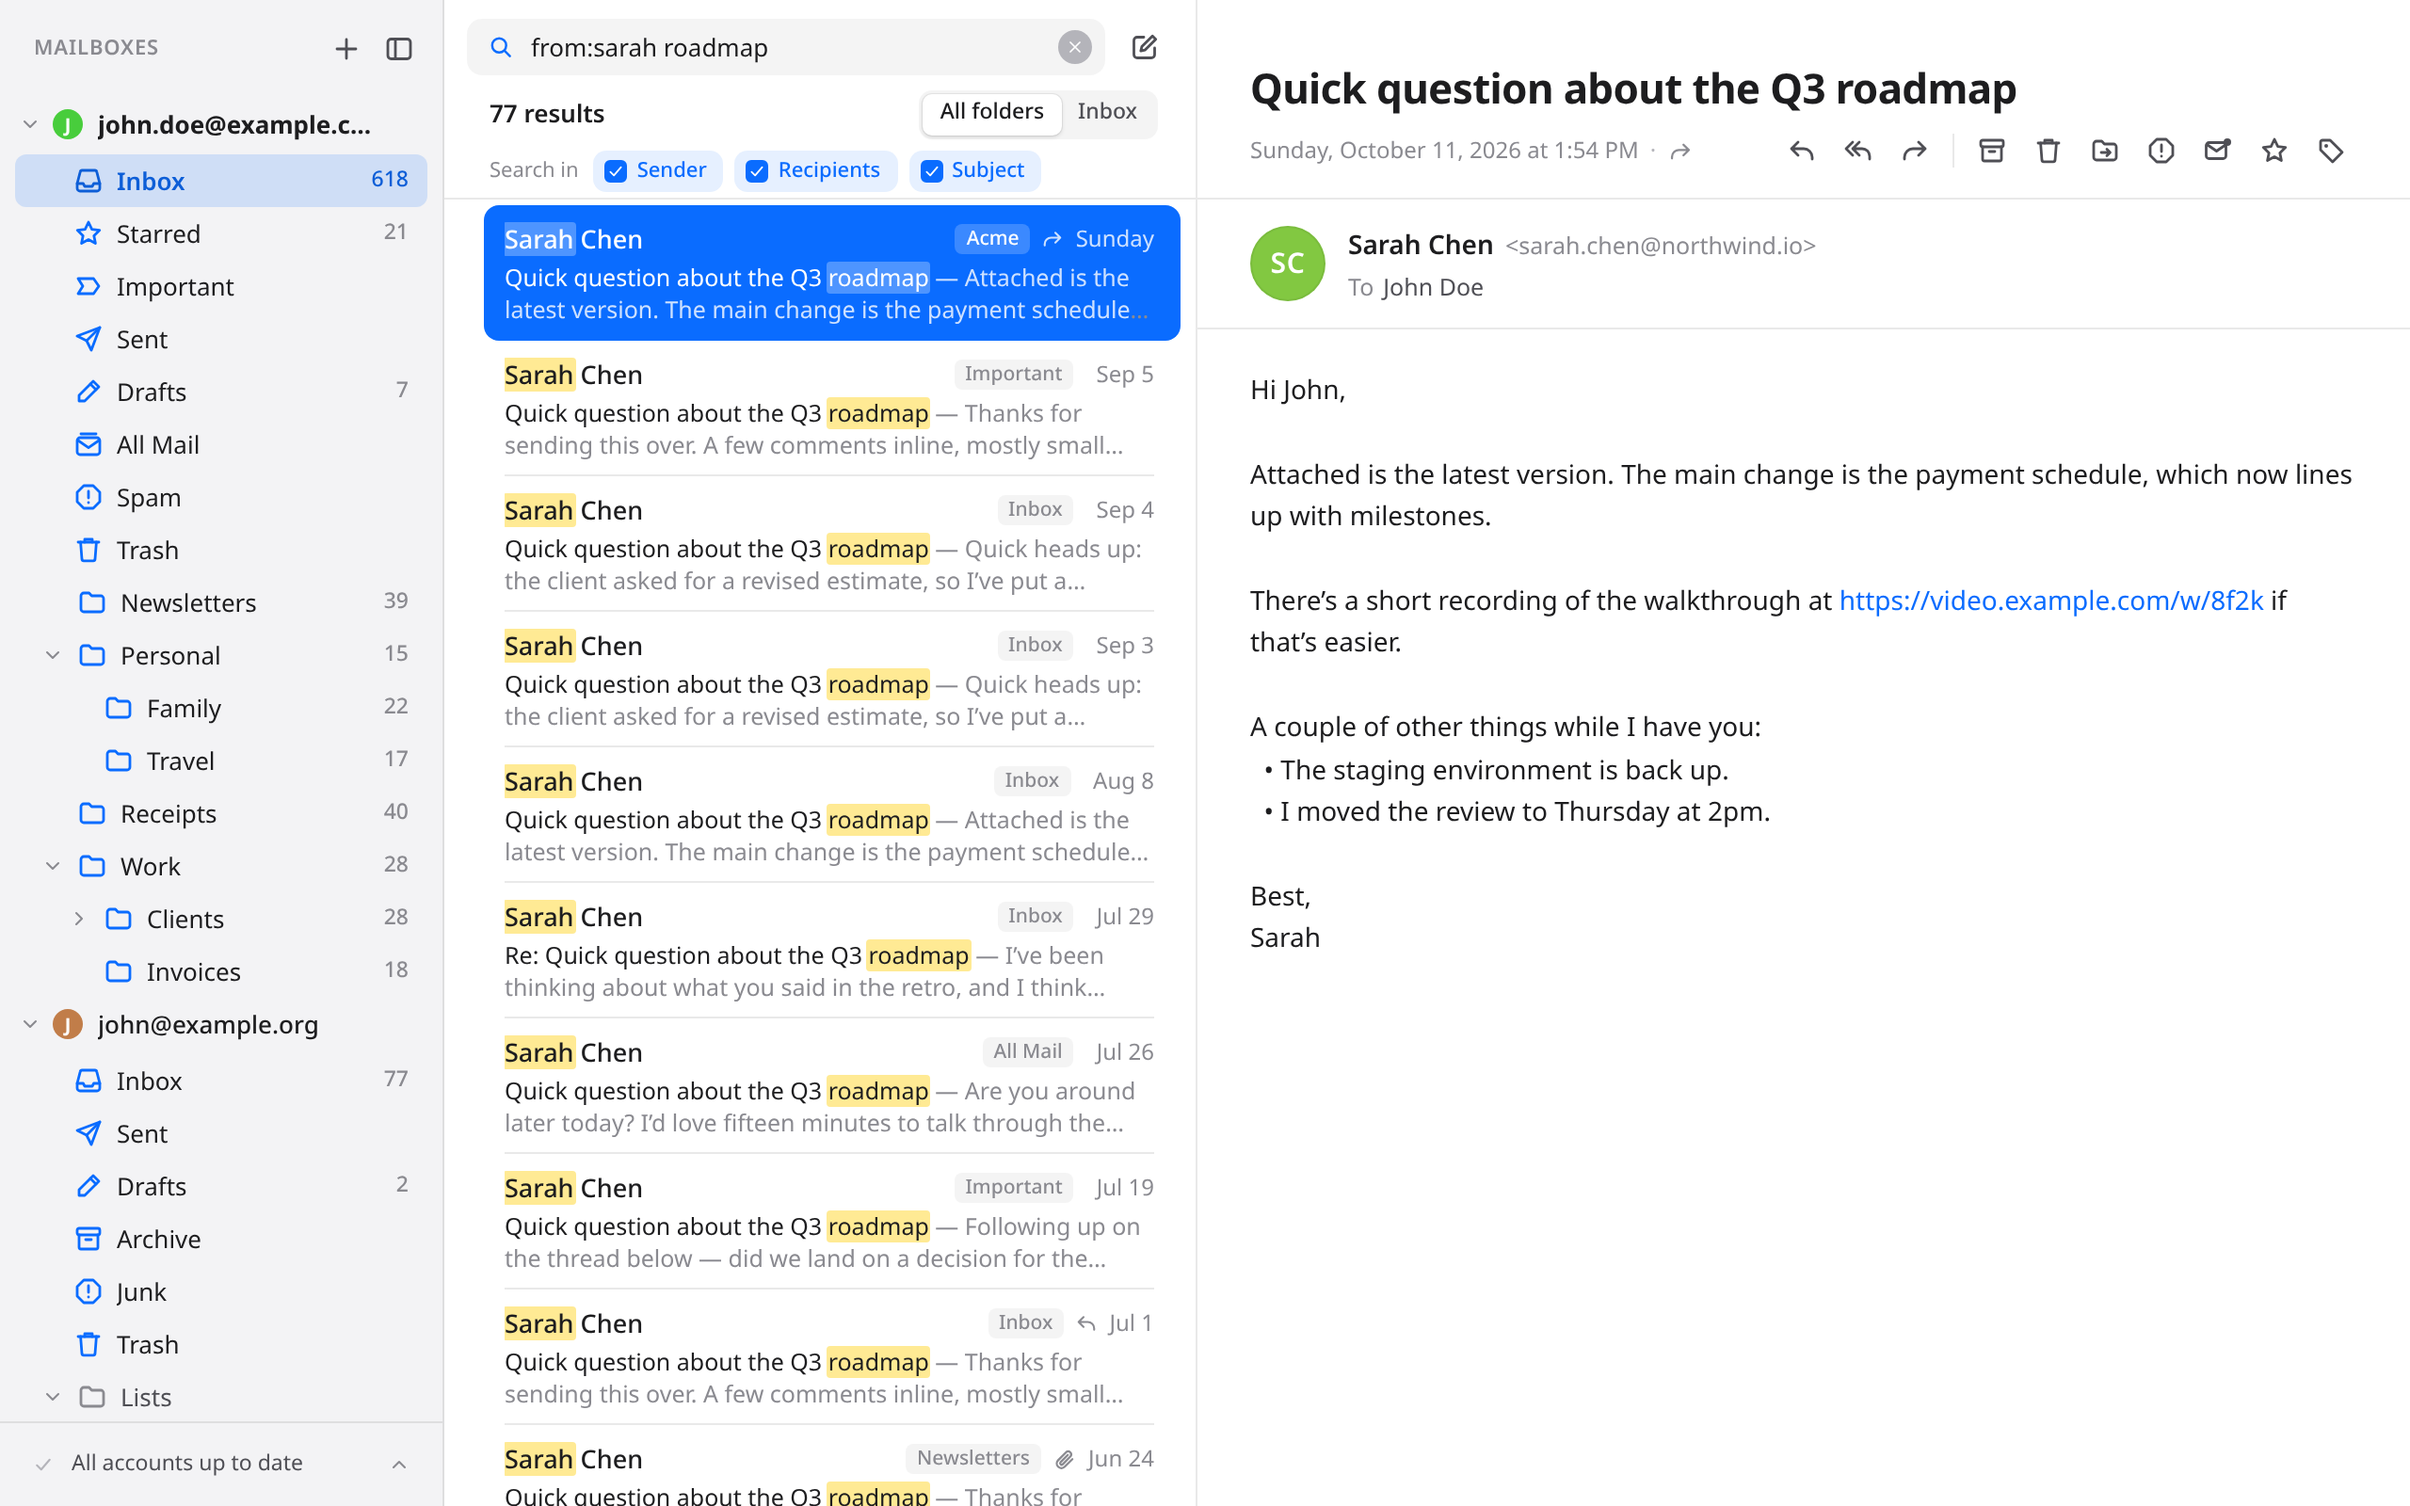
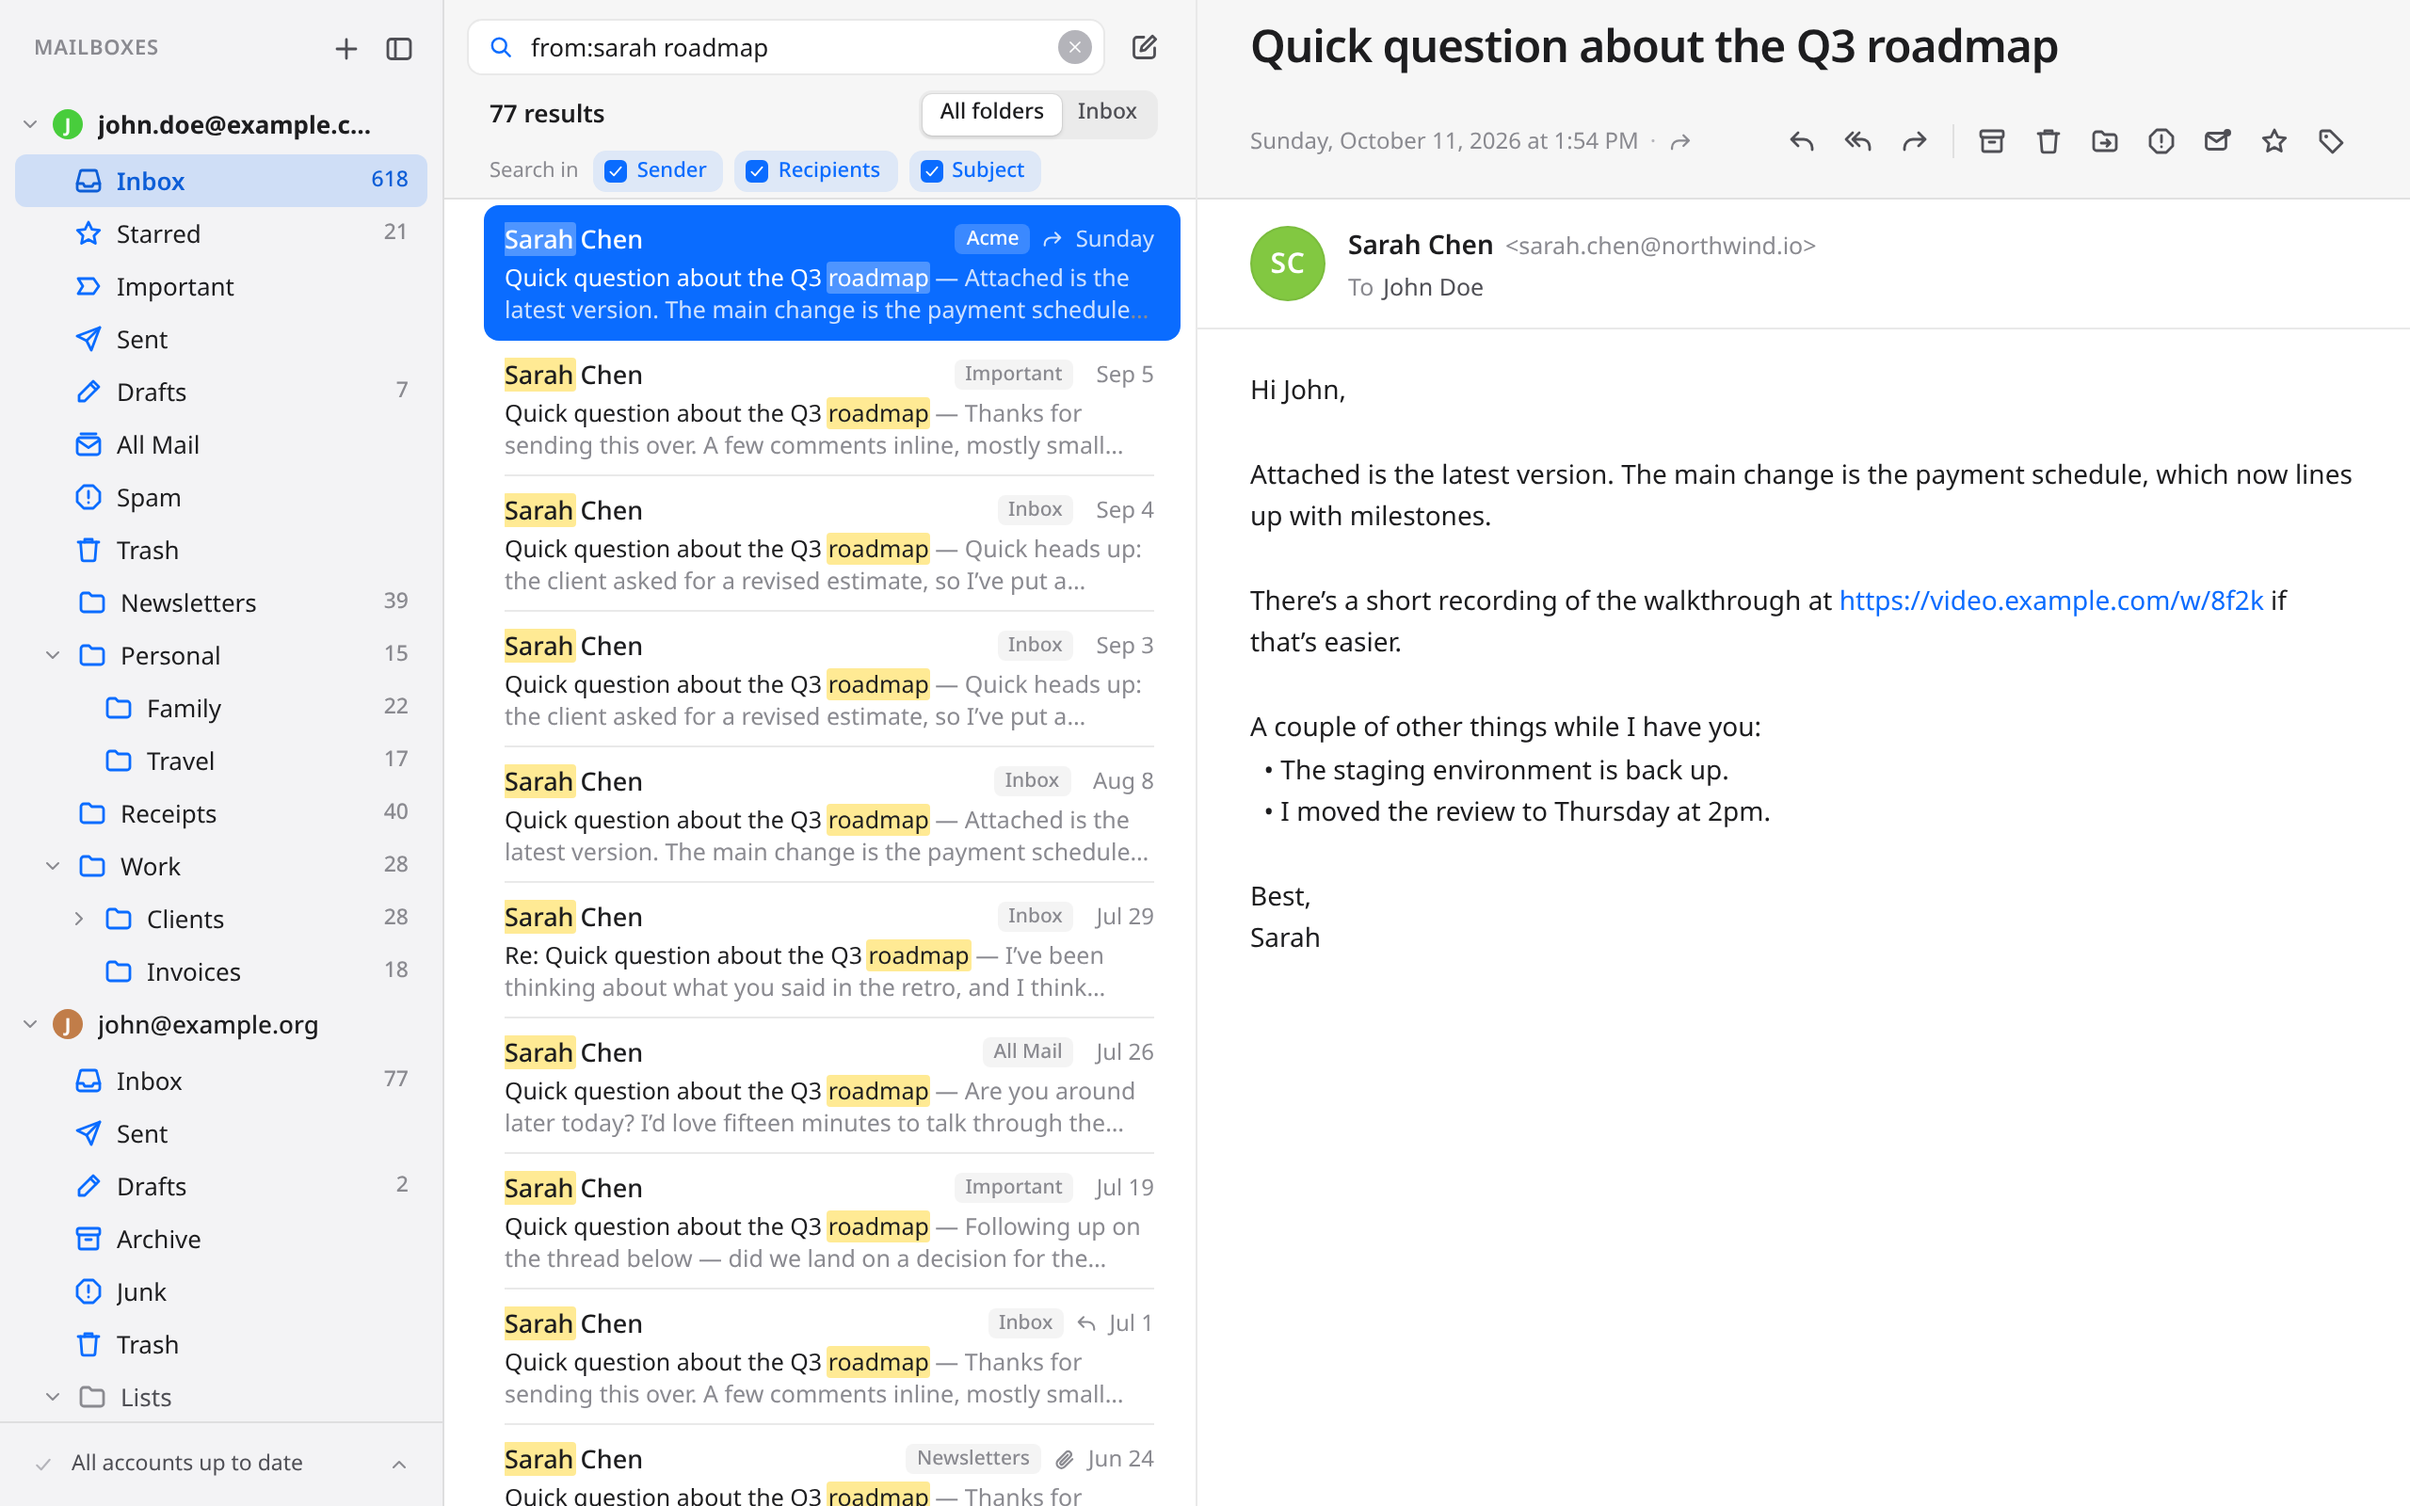
Header band across list and reader; HTML frames open near full size; status names the folder
- The reader's header mirrors the list's two rows: the subject lines up
  with the search field, the info row with the folder title. A light
  neutral band (--bg-band) runs behind both headers, with the search
  field white on it. The subject is set as a headline (24px, 650,
  tighter).
- HTML message frames start at the room left in the pane and don't
  shrink below it until their images have loaded (or 2.5 s), instead of
  growing from 160 px image by image.
- While the first pass after connecting shows "Updating folders", the
  core reports the folder it's checking or counting: "Updating Personal…".
- README screenshots regenerated.

Changed region(s): [[0.5, 0.0, 0.8438, 0.125], [0.8438, 0.0938, 0.9062, 0.125], [0.9375, 0.0938, 0.9688, 0.125]]

diff --git a/app/src/components/Conversation.tsx b/app/src/components/Conversation.tsx
@@ -43,10 +43,18 @@ export function AutoHeightFrame(props: { doc: string }) {
     f.setAttribute('sandbox', 'allow-same-origin allow-scripts allow-popups allow-popups-to-escape-sandbox');
     f.setAttribute('referrerpolicy', 'no-referrer');
     f.setAttribute('scrolling', 'no');
-    f.style.height = '160px';
+    // Until its images are in (they give most HTML mail its height), the frame keeps at least
+    // the room left in the pane: a long message opens at about its size instead of growing from
+    // a strip as each image arrives; a short one shrinks once, at the end.
+    let floor = 160;
+    const pane = host.closest('.conv-scroll');
+    if (pane) floor = Math.max(floor, Math.floor(pane.getBoundingClientRect().bottom - host.getBoundingClientRect().top - 16));
+    let settled = false;
+    f.style.height = `${floor}px`;
     f.srcdoc = props.doc;
 
     let ro: ResizeObserver | undefined;
+    let settleTimer: ReturnType<typeof setTimeout> | undefined;
     let last = -1;
     const measure = () => {
       const doc = f.contentDocument;
@@ -57,7 +65,7 @@ export function AutoHeightFrame(props: { doc: string }) {
       const margins = cs ? parseFloat(cs.marginTop) + parseFloat(cs.marginBottom) : 0;
       // The html box's own height shrinks with content (unlike scrollHeight, which is floored
       // at the viewport); body.scrollHeight catches overflowing children.
-      const h = Math.ceil(Math.max(de.getBoundingClientRect().height, body.scrollHeight + margins, 24));
+      const h = Math.ceil(Math.max(de.getBoundingClientRect().height, body.scrollHeight + margins, settled ? 24 : floor));
       if (Math.abs(h - last) > 1) {
         last = h;
         f.style.height = `${h}px`;
@@ -67,9 +75,7 @@ export function AutoHeightFrame(props: { doc: string }) {
       const doc = f.contentDocument;
       if (!doc) return;
       forwardFrameKeys(f);
-      // First pass: the frame is still small, so scrollHeight is exact here.
       last = -1;
-      f.style.height = `${Math.max(24, doc.documentElement.scrollHeight)}px`;
       measure();
       ro?.disconnect();
       ro = new ResizeObserver(() => measure());
@@ -78,16 +84,34 @@ export function AutoHeightFrame(props: { doc: string }) {
       ro.observe(f); // width changes (pane resize) reflow the content
       // Expanding/collapsing quoted history (native <details>): 'toggle' doesn't bubble, so capture.
       doc.addEventListener('toggle', measure, true);
+      // Settled once every image has loaded (or failed), or after a while regardless.
+      let pending = 0;
+      const settle = () => {
+        if (settled) return;
+        settled = true;
+        clearTimeout(settleTimer);
+        measure();
+      };
+      const imageDone = () => {
+        measure();
+        if (--pending === 0) settle();
+      };
       doc.querySelectorAll('img').forEach((img) => {
         if (!img.complete) {
-          img.addEventListener('load', measure);
-          img.addEventListener('error', measure);
+          pending++;
+          img.addEventListener('load', imageDone, { once: true });
+          img.addEventListener('error', imageDone, { once: true });
         }
       });
+      if (pending === 0) settle();
+      else settleTimer = setTimeout(settle, 2500);
       void doc.fonts?.ready.then(measure);
     });
     host.replaceChildren(f);
-    onCleanup(() => ro?.disconnect());
+    onCleanup(() => {
+      ro?.disconnect();
+      clearTimeout(settleTimer);
+    });
   });
   return <div class="card-frame-wrap" ref={host} />;
 }

diff --git a/app/src/styles.css b/app/src/styles.css
@@ -16,6 +16,9 @@
   --bg-hover: rgba(0, 0, 0, 0.045);
   --bg-active: rgba(0, 0, 0, 0.08);
   --bg-subtle: rgba(0, 0, 0, 0.035);
+  /* the header band across the list and the reader (search, folder title, subject): neutral,
+     since blue means selected */
+  --bg-band: rgba(0, 0, 0, 0.035);
 
   --text: #1d1d1f;
   --text-2: #4f4f55;
@@ -66,6 +69,7 @@
     --bg-hover: rgba(255, 255, 255, 0.05);
     --bg-active: rgba(255, 255, 255, 0.09);
     --bg-subtle: rgba(255, 255, 255, 0.04);
+    --bg-band: rgba(255, 255, 255, 0.055);
 
     --text: #ececef;
     --text-2: #b4b4bb;
@@ -743,10 +747,11 @@ body.resizing iframe {
 }
 .reader-subject {
   margin: 0 0 16px;
-  font-size: 22px;
+  /* a headline: a little larger, a little lighter than bold, set tighter */
+  font-size: 24px;
   line-height: 1.25;
-  font-weight: 700;
-  letter-spacing: -0.015em;
+  font-weight: 650;
+  letter-spacing: -0.022em;
   overflow-wrap: anywhere;
 }
 
@@ -1456,14 +1461,15 @@ body.resizing iframe {
   height: 30px;
   padding: 0 6px 0 10px;
   border-radius: 8px;
-  background: var(--bg-hover);
-  border: 1px solid transparent;
+  /* white on the tinted header band, like a toolbar field */
+  background: var(--bg-input);
+  border: 1px solid var(--sep);
   color: var(--text-3);
   transition: background 120ms, border-color 120ms, box-shadow 120ms;
   cursor: text;
 }
 .search-field:hover {
-  background: var(--bg-active);
+  border-color: color-mix(in srgb, var(--text-3) 45%, transparent);
 }
 .search-field:focus-within {
   background: var(--bg-input);
@@ -1980,6 +1986,7 @@ body.resizing iframe {
 .search-bar {
   height: var(--search-bar-h);
   padding: 0 12px;
+  background: var(--bg-band);
   display: flex;
   align-items: flex-end;
   padding-bottom: 4px;
@@ -1992,6 +1999,7 @@ body.resizing iframe {
 /* list header (folder, threaded/flat, loading, empty) and search header: same box */
 .list-head,
 .list-head.search-head {
+  background: var(--bg-band);
   height: calc(var(--pane-head-h) - var(--search-bar-h));
   min-height: calc(var(--pane-head-h) - var(--search-bar-h));
   max-height: calc(var(--pane-head-h) - var(--search-bar-h));
@@ -2012,6 +2020,7 @@ body.resizing iframe {
 .list-placeholder::before {
   content: '';
   display: block;
+  background: var(--bg-band);
   height: calc(var(--pane-head-h) - var(--search-bar-h));
   border-bottom: 1px solid var(--sep);
 }
@@ -2025,17 +2034,18 @@ body.resizing iframe {
   max-height: var(--pane-head-h);
   display: flex;
   flex-direction: column;
-  justify-content: flex-end;
-  gap: 6px;
-  padding: 0 28px 13px;
+  padding: 0 28px;
+  background: var(--bg-band);
   border-bottom: 1px solid var(--sep);
   overflow: hidden;
   user-select: text;
   -webkit-user-select: text;
   animation: none;
 }
+/* The band mirrors the list's two rows beside it: the subject where the search field is (its
+   30px box, 4px above the search row's foot), the info row centred where the folder title is. */
 .reader-band .reader-subject {
-  margin: 0;
+  margin: calc(var(--search-bar-h) - 34px) 0 0;
   flex: none;
   white-space: nowrap;
   overflow: hidden;
@@ -2060,6 +2070,10 @@ body.resizing iframe {
 }
 .reader-band .conv-meta {
   justify-content: space-between;
+}
+.reader-band .conv-meta,
+.reader-band .band-meta {
+  margin-top: calc(4px + (var(--pane-head-h) - var(--search-bar-h) - 24px) / 2);
 }
 .band-meta .dot-sep {
   margin: 0 6px;

diff --git a/app/src/components/Sidebar.tsx b/app/src/components/Sidebar.tsx
@@ -111,8 +111,11 @@ function syncLabel(s: SyncStatus): string {
   switch (s.phase) {
     case 'connecting':
       return s.message || 'Connecting…';
-    case 'folders':
-      return 'Updating folders…';
+    case 'folders': {
+      // the folder being checked or counted, when the core says (first pass after connecting)
+      const f = s.folderId != null ? folderById(s.folderId) : undefined;
+      return f ? `Updating ${f.displayName}…` : 'Updating folders…';
+    }
     case 'headers':
       return s.total > 0 ? `Syncing ${fmtNum(s.done)} / ${fmtNum(s.total)}` : 'Syncing…';
     case 'bodies':
@@ -281,7 +284,7 @@ export function SyncFooter(props: { compact?: boolean }) {
     let text: string;
     if (activeList.length === 1) {
       const st = activeList[0]!.status!;
-      text = st.phase === 'connecting' || st.phase === 'folders' ? 'Updating…' : syncLabel(st);
+      text = st.phase === 'connecting' ? 'Updating…' : syncLabel(st);
     } else if (total > 0) {
       text = `Syncing ${activeList.length} accounts · ${fmtNum(done)} / ${fmtNum(total)}`;
     } else {

diff --git a/crates/mail-core/src/sync/mod.rs b/crates/mail-core/src/sync/mod.rs
@@ -200,6 +200,15 @@ impl Shared {
             SyncStatus { account_id: self.account.id, phase, folder_id, done, total, message };
     }
 
+    /// While the first pass after connecting shows "Updating folders", name the folder it's on
+    /// (routine passes stay quiet: they don't report this phase).
+    fn note_folder(&self, folder_id: i64) {
+        let mut s = self.header.lock().unwrap();
+        if s.phase == SyncPhase::Folders {
+            s.folder_id = Some(folder_id);
+        }
+    }
+
     async fn connect(&self) -> Result<Connection> {
         use std::sync::atomic::Ordering;
         if self.auth_failed.load(Ordering::SeqCst) {
@@ -566,6 +575,7 @@ async fn header_task(shared: Arc<Shared>) -> Result<()> {
                 epoch,
                 report: &report,
             };
+            shared.note_folder(next);
             let activity = conn.activity.clone();
             let what = format!("syncing {}", folder.raw_name);
             let step = imap::stall_timeout(&activity, STALL_TIMEOUT, &what, shared.strategy.step(&mut conn, &ctx)).await?;
@@ -608,6 +618,7 @@ async fn sweep_counts(shared: &Shared, conn: &mut Connection, only: Option<&Hash
     let wanted = folders.iter().filter(|f| f.selectable && only.is_none_or(|o| o.contains(&f.id)));
     for (i, f) in wanted.enumerate() {
         // A stall ends the sweep (the connection is gone); a folder's own error doesn't.
+        shared.note_folder(f.id);
         let activity = conn.activity.clone();
         match imap::stall_timeout(&activity, STALL_TIMEOUT, "counting messages", conn.status(&f.raw_name)).await? {
             Ok((total, unread)) => shared.store.set_folder_counts(f.id, total, unread)?,
